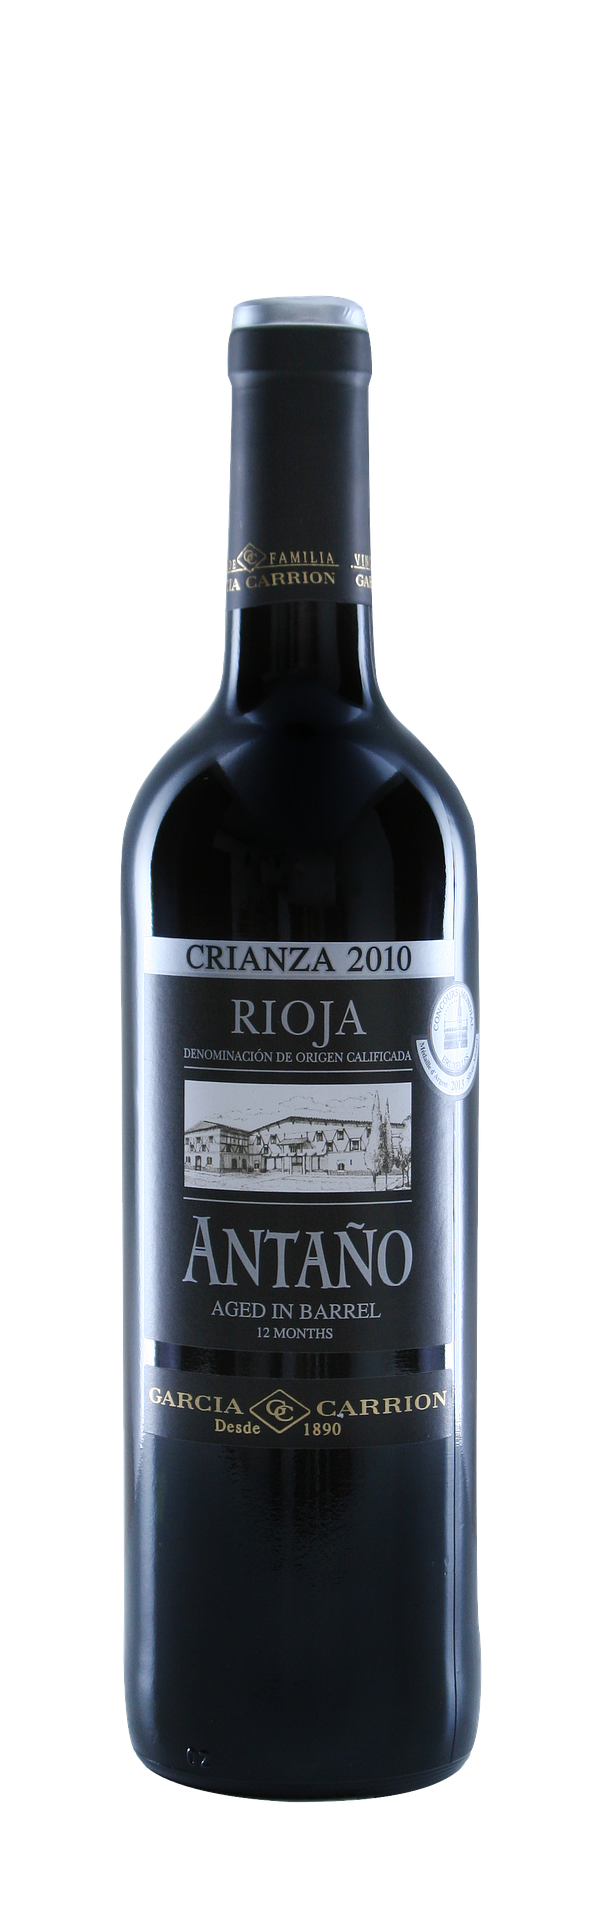
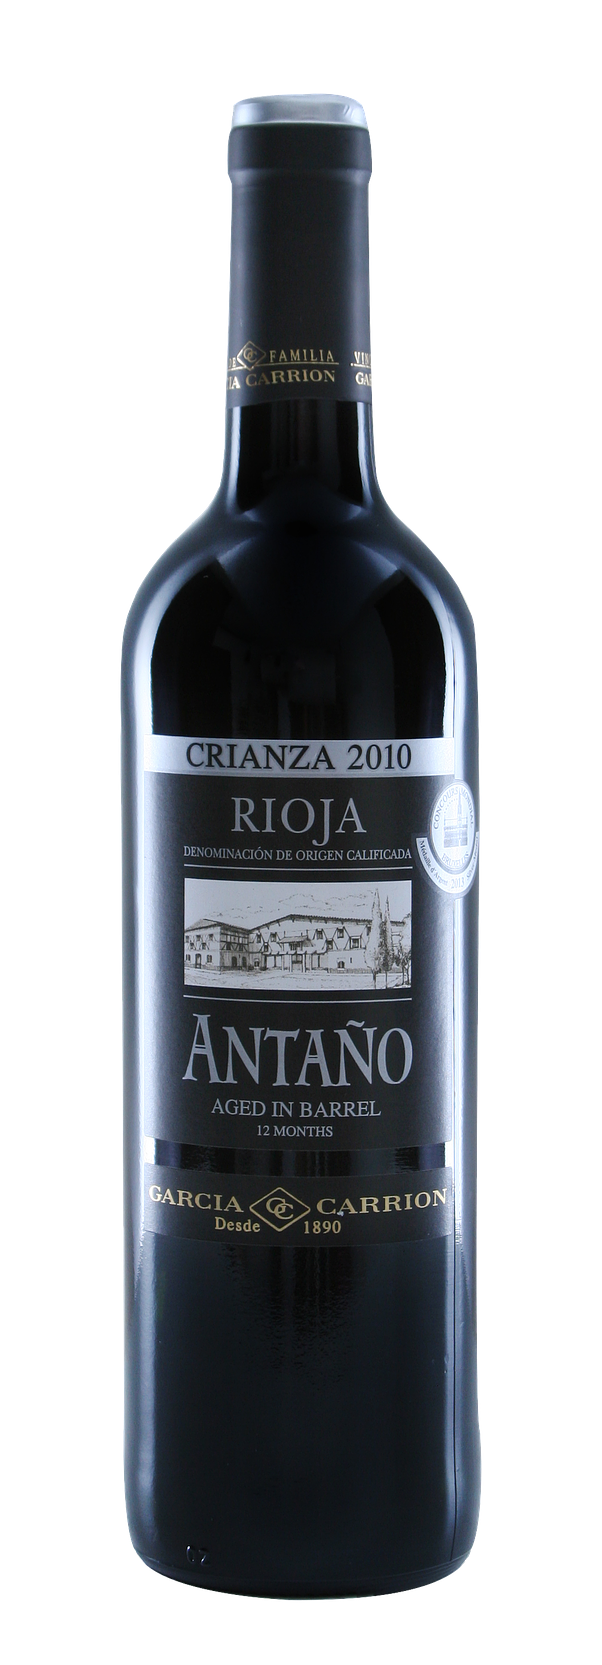
detalles vistas

Changed region(s): [[0.1794, 0.0312, 0.8073, 0.7495], [0.2093, 0.8745, 0.8073, 0.9682]]

diff --git a/public/stylesheets/recomendados.css b/public/stylesheets/recomendados.css
@@ -1,3 +1,7 @@
+.back-color {
+  background-color: #ffffff !important;
+}
+
 .padre {
   margin: 0 auto;
   width: 55%;
@@ -6,7 +10,7 @@
 }
 
 .texto-producto {
-  font-size: 30px;
+  font-size: 20px;
 }
 
 .articulos {
@@ -14,26 +18,27 @@
   box-shadow: 20px 20px 60px #bebebe, -20px -20px 60px #ffffff;
   padding: 10px;
   text-align: center;
-  width: 70%;
   color: white;
-  margin: auto;
-  background: linear-gradient(1deg, black, transparent);
+  background: linear-gradient(1deg, #00000050, transparent);
   background-color: slategrey;
+}
 
+.fa-cart-arrow-down {
+  color:limegreen;
 }
 
 .img-producto {
-  max-height: 20rem;
+  max-height: 15rem;
   filter: drop-shadow(2px 4px 20px black);
 }
 
 .padre-lista {
-  margin: 0 auto;
-  width: 35%;
-  text-align: center;
-  grid-template-columns: 50% 50%;
-  justify-content: space-between;
-  grid-template-rows: auto;
+  display: flex;
+  flex-wrap: wrap;
+  gap: 10px;
+  margin: auto;
+  margin-top: 20px;
+  justify-content: center;
 }
 
 .img-user {

diff --git a/public/stylesheets/style.css b/public/stylesheets/style.css
@@ -14,8 +14,11 @@ html {
 }
 
 main {
-  background-color: #000000;
   display: block;
+}
+
+.baner-cat {
+  width: 100%;
 }
 
 .badge {
@@ -199,7 +202,7 @@ a {
 h2 {
   text-align: center;
   color: black;
-  font-size: 50px;
+  font-size: 30px;
   padding: 20px;
 }
 
@@ -506,6 +509,7 @@ legend {
 }
 .tablet-pc{
   display: none;
+  background-color: black;
 }
 
 @media (min-width: 479px) {

diff --git a/public/stylesheets/product-styles.css b/public/stylesheets/product-styles.css
@@ -26,9 +26,7 @@ body {
 }
 
 .botella-vino {
-  
-  max-height: 350px;
-  max-width: 350px;
+  width: 40%;  
 }
 
 .left-header {
@@ -299,9 +297,7 @@ h2 {
     justify-content: center;
   }
   .botella-vino {
-  
-    max-height: 700px;
-    max-width: 700px;
+    width: 40%;
   }
 
   .imagen {

diff --git a/public/stylesheets/header.css b/public/stylesheets/header.css
@@ -61,7 +61,7 @@
   }
   
   .texto-navBar {
-    font-size: 35px;
+    font-size: 25px;
   }
   
   .fa-solid {
